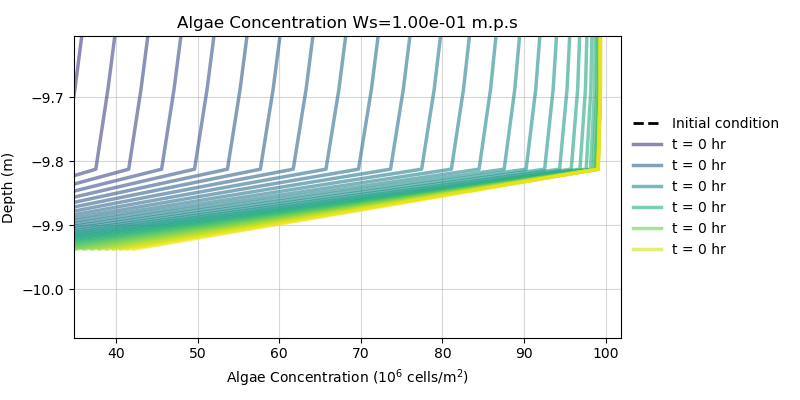
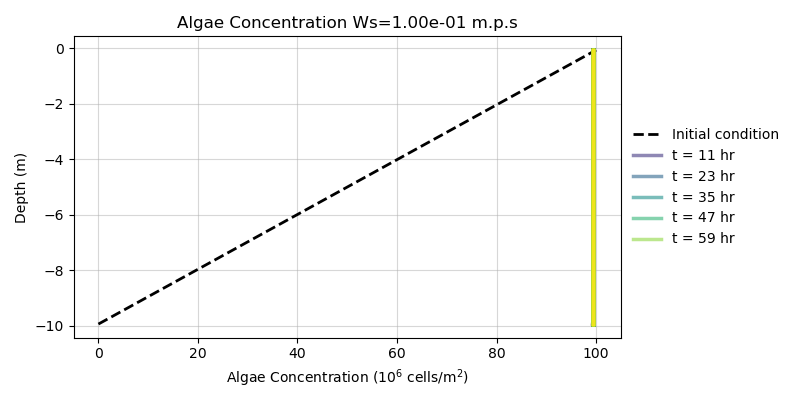
trying to remove pngs

diff --git a/watercolumn-sw.py b/watercolumn-sw.py
@@ -43,8 +43,8 @@ than passing a bunch of arrays around between functions.
 N = 80    # number of grid points
 H = 10    # depth (meters)
 dz = H/N  # grid spacing - may need to adjust to reduce oscillations
-dt = 1   # (seconds) size of time step 
-M  = 180 #1440*3 # 400  # number of time steps 
+dt = 60   # (seconds) size of time step 
+M  = 2 #1440*3 # 400  # number of time steps 
 
 read_from_input=False
 
@@ -56,7 +56,7 @@ if read_from_input:
             exec(line)
 else: 
     # Increments for saving profiles. set to 1 to save all; 10 saves every 10th, etc. 
-    isave = 2
+    isave = 30
 
     # Algae parameters 
     background_turbidity =  0.16
@@ -64,7 +64,7 @@ else:
 
     diatoms = Algae_Species(k = 0, #0.7,    # specific light attenuation coefficient [cm^2 / 10^6 cells]
                     pmax = 0.05,     # maximum specific growth rate [1/hour]
-                    ws = .01, #-200,       # vertical velocity [m/s]
+                    ws = 1e-3, #-200,       # vertical velocity [m/s]
                     Hi = 40,         # half-saturation of light-limited growth [mu mol photons * m^2/s]
                     Li = 0.006,      # specific loss rate [1/hour]
                     name = "Diatoms",
@@ -73,12 +73,13 @@ else:
     init = 100 
 
     # Pressure Forcing -> Need to modify to allow for time variable Px.
-    Px0 = 2e-9  # Magnitude on pressure gradient forcing
+    Px0 = 2e-6  # Magnitude on pressure gradient forcing
     T_Px = 0 # 12.0  # Period [hours] on pressure gradient forcing. Set to 0 for steady
 
 print("WS IS %2.9f m/s" % (diatoms.ws))
 
 diatoms.set_initial_concentration(N, init=init, opt='linear')
+diatoms.save_total_mass()
 diatoms.set_vertical_grid(H, N, dz)
 algae = diatoms.c
 courant = abs(diatoms.ws * dt)/dz
@@ -467,9 +468,10 @@ for m in range(1,M):
     # Uses BGO/Mellor-Yamada 2-equation closure
     U, C, Q2, Q2L, rho, L, nu_t, Kz, Kq, N_BV, algae = wc_advance(U, C, Q2, Q2L, rho, L, nu_t, Kz, Kq, N_BV, algae) 
 
+    diatoms.save_total_mass()
     if m%isave == 0:
         diatoms.save_total_mass()
-        saved_profiles.save_profile_at_timestep(m, t[m], U, C, Q2, Q2L, rho, L, nu_t, Kz, Kq, N_BV, algae)
+        # saved_profiles.save_profile_at_timestep(m, t[m], U, C, Q2, Q2L, rho, L, nu_t, Kz, Kq, N_BV, algae)
 
 
 
@@ -478,8 +480,8 @@ print(time.time()  - t1)
 # f0, a0 = saved_profiles.plot_profiles('U', skip=2, passed_string=RUN_INFO)
 # f0.savefig('output/U-%s.png' % RUN_INFO)
 
-f0, a0 = saved_profiles.plot_profiles('algae', skip=2, passed_string=RUN_INFO)
-f0.savefig('output/algae-%s.png' % RUN_INFO)
+# f0, a0 = saved_profiles.plot_profiles('algae', skip=2, passed_string=RUN_INFO)
+# f0.savefig('output/algae-%s.png' % RUN_INFO)
 
 
 # # saved_profiles.plot_profiles('C', skip=2)
@@ -487,6 +489,6 @@ f0.savefig('output/algae-%s.png' % RUN_INFO)
 # # saved_profiles.plot_profiles('L', skip=2)
 # f0, a0 = saved_profiles.plot_profiles('Kz', skip=2, passed_string=RUN_INFO)
 # f0.savefig('output/kappa_z-%s.png' % RUN_INFO)
-
-# plt.plot(saved_profiles.saved_profiles['time'][:-1], diatoms.total_mass)
-# plt.show()
+print(diatoms.total_mass)
+plt.plot( diatoms.total_mass)
+plt.show()

diff --git a/watercolumn_lib.py b/watercolumn_lib.py
@@ -65,12 +65,13 @@ class SavedProfiles:
     def initialize_saved_profiles(self):
         saved_profiles = {} 
         for variable in self.variables_to_save:
-            saved_profiles[variable] = np.zeros((self.N, self.n_profiles))
-        saved_profiles['time'] = np.zeros((self.n_profiles))
+            saved_profiles[variable] = np.zeros((self.N, self.n_profiles+1))
+        saved_profiles['time'] = np.zeros((self.n_profiles+1))
         self.saved_profiles = saved_profiles
 
     def store_z(self, z):
         self.z = z
+
     def save_profile_at_timestep(self, profile_num, time, U, C, Q2, Q2L, rho, L, nu_t, Kz, Kq, N_BV, algae):
         profile_num = profile_num//self.isave
         self.saved_profiles['U'][:,profile_num] = U
